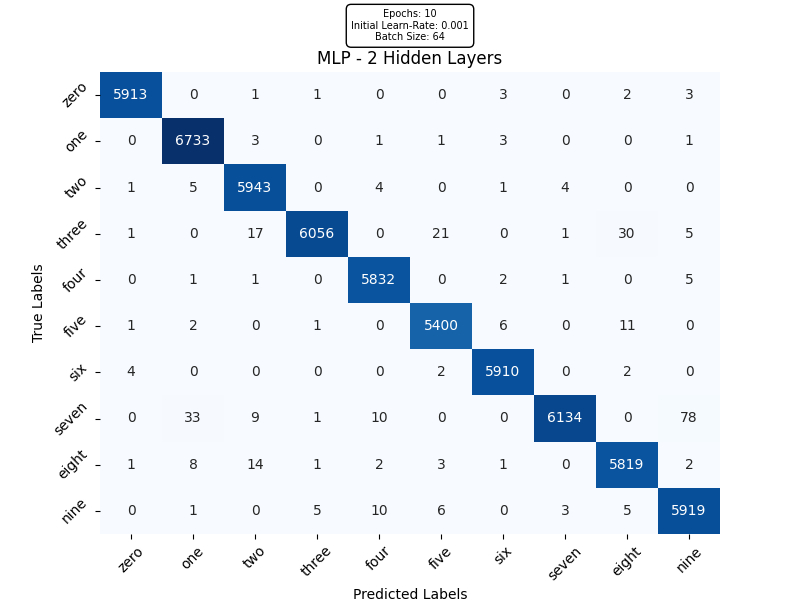
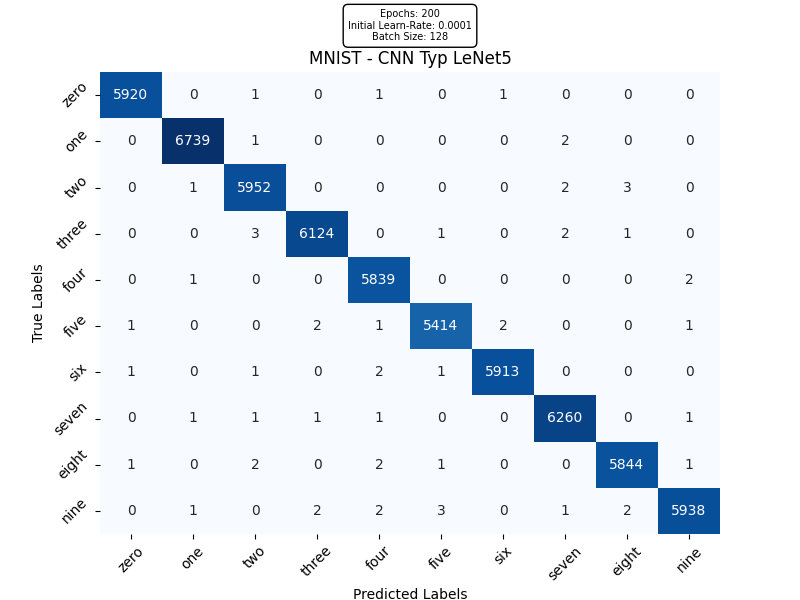
trains cnn with both datasets for 200 epochs

diff --git a/cnn_MNIST_LeNet5.py b/cnn_MNIST_LeNet5.py
@@ -232,9 +232,9 @@ class MNIST_Cnn_Classifier:
 
 
 def main():
-    n_epochs = 10
+    n_epochs = 200
     log_interval = 10
-    init_lr = 0.001
+    init_lr = 0.0001
     cl = MNIST_Cnn_Classifier(n_epochs, init_lr)
     cl.test()
 
@@ -247,7 +247,7 @@ def main():
     cl.test()
     cl.plot_confMatrix()
 
-    cl.saveModelWheights()
+    cl.saveModelWeights(n_epochs)
 
 if __name__ == '__main__':
     main()

diff --git a/cnn_cifar.py b/cnn_cifar.py
@@ -259,7 +259,7 @@ def main():
     cl.test()
     cl.plot_confMatrix()
 
-    cl.saveModelWheights()
+    cl.saveModelWeights(n_epochs)
 
 if __name__ == '__main__':
     main()
